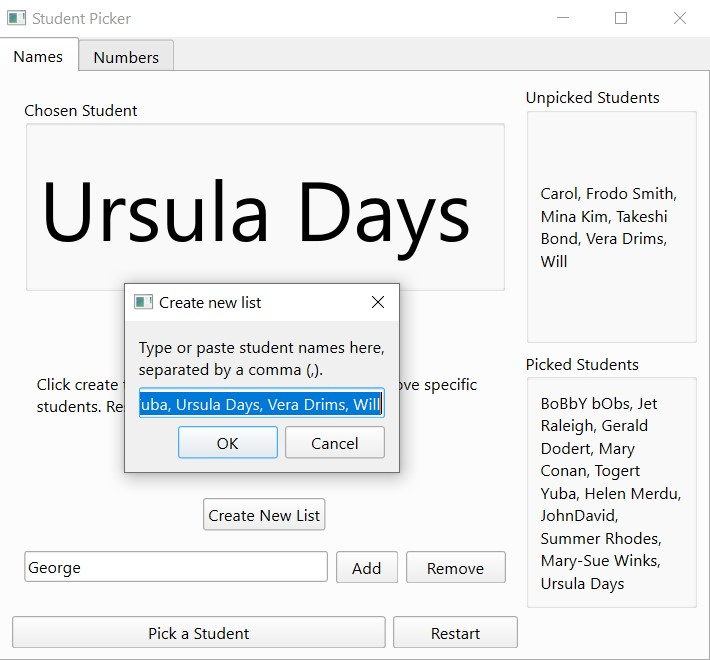
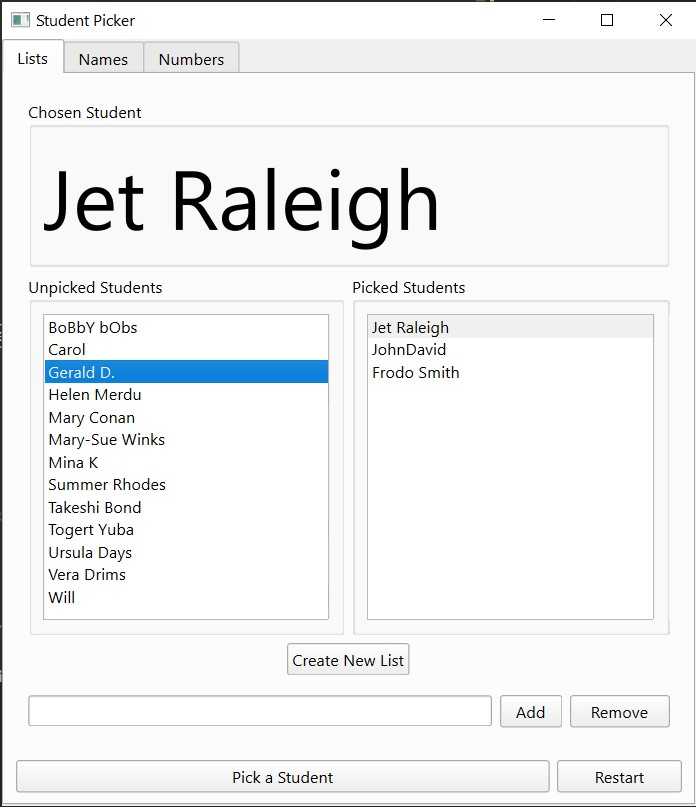
Fixed restart button. Layout adjusted.

diff --git a/lists.py b/lists.py
@@ -55,15 +55,15 @@ class Lists(QWidget):
         self.create_buttons()
 
         topLeftLayout = self.createTopLeftLayout(def_ss, max_ss)
-        topRightLayout = self.createTopRightLayout()
+        # topRightLayout = self.createTopRightLayout()
         bottomLayout = self.createBottomLayout()
 
         # Main Layout
         mainLayout = QGridLayout()
-        mainLayout.setColumnStretch(0, 3)
-        mainLayout.setColumnStretch(1, 1)
+        #mainLayout.setColumnStretch(0, 3) # Relic from 2 column layout
+        #mainLayout.setColumnStretch(1, 1)
         mainLayout.addLayout(topLeftLayout, 0, 0)
-        mainLayout.addLayout(topRightLayout, 0, 1)
+        # mainLayout.addLayout(topRightLayout, 0, 1)
         mainLayout.addLayout(bottomLayout, 1, 0)
 
         self.setLayout(mainLayout)
@@ -83,7 +83,7 @@ class Lists(QWidget):
         )
 
         topLeftLayout.addWidget(topLeftGroupBox1)
-        topLeftLayout.addWidget(guideText)
+        # topLeftLayout.addWidget(guideText)
         topLeftLayout.setContentsMargins(10, 10, 10, 10)
 
         # Create a textbox for a new list.
@@ -94,12 +94,12 @@ class Lists(QWidget):
         self.add_remove_textbox = QLineEdit(maximumWidth=1000)
         self.add_remove_textbox.returnPressed.connect(self.btn_add_student_clicked)
 
+        # Create student lists.
+        topRightLayout = self.createTopRightLayout()
+        topLeftLayout.addLayout(topRightLayout)
+
         # Create a layout for the create list textbox and button.
         create_list_layout = QVBoxLayout()
-        # create_list_layout.addWidget(self.create_list_textbox)
-        # create_list_layout.addWidget(
-        #     self.btn_new_list, alignment=Qt.AlignmentFlag.AlignHCenter
-        # )
         create_list_layout.addWidget(
             self.btn_new_list_dialog, alignment=Qt.AlignmentFlag.AlignHCenter
         )
@@ -116,9 +116,9 @@ class Lists(QWidget):
 
         return topLeftLayout
 
-    def createTopRightLayout(self):
+    def createTopRightLayout(self): # Student lists. (Was top right.)
         # Top right box - lists and results
-        topRightLayout = QVBoxLayout()
+        topRightLayout = QHBoxLayout()
 
         # --- Unpicked students group box
         topRightGroupBox1 = QGroupBox("Unpicked Students")
@@ -155,6 +155,7 @@ class Lists(QWidget):
         self.ss_unpicked_list_view.setModel(self.ss_unpicked_model) # Apply model
         self.ss_picked_model = QStringListModel()
         self.ss_picked_list_view.setModel(self.ss_picked_model)
+        self.btn_pick_enable_check()
 
 
     def create_buttons(self):
@@ -208,36 +209,18 @@ class Lists(QWidget):
 
     def btn_pick_clicked(self):
         """Pick a student from the list, show result (and remove)."""
-        x = self.ss_unpicked_list
-        print(x)
-
-        rf = self.btn_pick_clicked_restart_flag
-
-        if x:
-            rf = 0  # Still students in list
-            rowCount = self.ss_unpicked_model.rowCount()
-            print(f"NumRows: {rowCount}")
-            randomValue = random.randrange(0, rowCount)
-            print(f"Selected: {randomValue}")
-            index = self.ss_unpicked_model.index(randomValue)
-            picked = self.ss_unpicked_model.data(index)
-            print(f"Index data:{picked}")
-            self.ss_unpicked_model.removeRows(randomValue, 1)
-            self.model_insert_name(self.ss_picked_model, picked)
-            self.last_picked_num = randomValue
-            self.picked_student_label.setText(picked)
-            print(f"RF: {rf}")
-            self.btn_pick_enable_check()
-
-        if not x and rf == 0:
-            rf = 1
-            print(f"RF: {rf}")
-
-        if rf == 1:  # No students in list.
-            self.ss_unpicked_list_label.setText("All students picked.")
-            self.btn_pick.setDisabled(1)
-
-        self.btn_pick_clicked_restart_flag = rf  # Update global var
+        rowCount = self.ss_unpicked_model.rowCount()
+        print(f"NumRows: {rowCount}")
+        randomValue = random.randrange(0, rowCount)
+        print(f"Selected: {randomValue}")
+        index = self.ss_unpicked_model.index(randomValue)
+        picked = self.ss_unpicked_model.data(index)
+        print(f"Index data:{picked}")
+        self.ss_unpicked_model.removeRows(randomValue, 1)
+        self.model_insert_name(self.ss_picked_model, picked)
+        self.last_picked_num = randomValue
+        self.picked_student_label.setText(picked)
+        self.btn_pick_enable_check()
 
     def btn_new_list_clicked(self):  # Perhaps redundant but still used on startup
         """Create a new list based on the text box. Reset results."""
@@ -262,31 +245,46 @@ class Lists(QWidget):
         if ok:
             x = text
             x = x.split(",")
-            x = [z.strip() for z in x]  # Remove whitespace
-            x = set(x)  # Remove duplicates
-            x = list(filter(None, x))  # Remove empty strings and return to list
-            # x = list(set(x))
+            x = self.clean_list(x)
             print(x)
             x.sort()
             self.ss_name_list = x.copy()
             self.create_string_models()
             self.picked_student_label.setText("--")
 
+    def clean_list(self, x):
+        """Remove dups, whitespace and empty strings from a list."""
+        x = [z.strip() for z in x]  # Remove whitespace
+        x = set(x)  # Remove duplicates
+        x = list(filter(None, x))  # Remove empty strings and return to list
+        x.sort()
+        return x
+
     def btn_restart_clicked(self):
         """Restart the lists based on current list."""
-        self.ss_unpicked_list = self.ss_name_list.copy()
-        self.ss_unpicked_list.sort()
-        self.ss_picked_list.clear()
-        self.picked_student_label.setText("--")
+        picked = self.ss_picked_model.stringList()
+        unpicked = self.ss_unpicked_model.stringList()
+        combined = picked + unpicked
+        print(f"Combined: {combined}")
+        combined = self.clean_list(combined)
+        print(f"Combined Dups: {combined}")
+        self.ss_name_list = combined.copy() # Update global variable.
+        self.create_string_models() # Recreate models based on combined list.
+        self.btn_pick_enable_check()
 
     def btn_pick_enable_check(self):
         """Check if the pick button should be enabled or disabled."""
-        if self.ss_unpicked_list:
+        unpicked_rows = self.ss_unpicked_model.rowCount()
+        picked_rows = self.ss_picked_model.rowCount()
+        print(unpicked_rows)
+        print(picked_rows)
+
+        if self.ss_unpicked_model.rowCount() >= 1:
             self.btn_pick.setEnabled(1)
         else:
             self.btn_pick.setDisabled(1)
 
-        if self.ss_picked_list:
+        if self.ss_picked_model.rowCount() >= 1:
             self.btn_restart.setEnabled(1)
         else:
             self.btn_restart.setDisabled(1)
